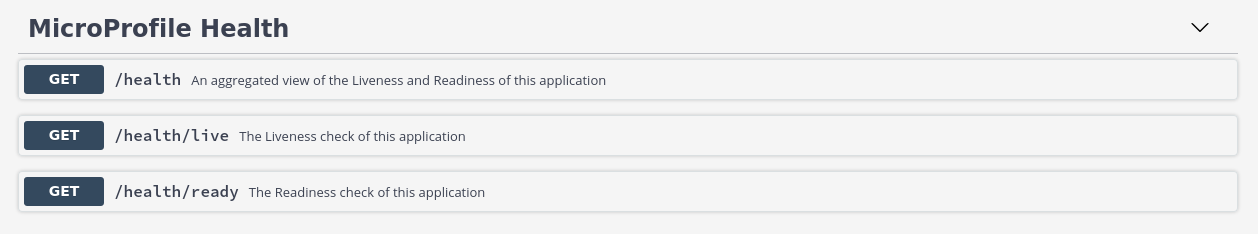
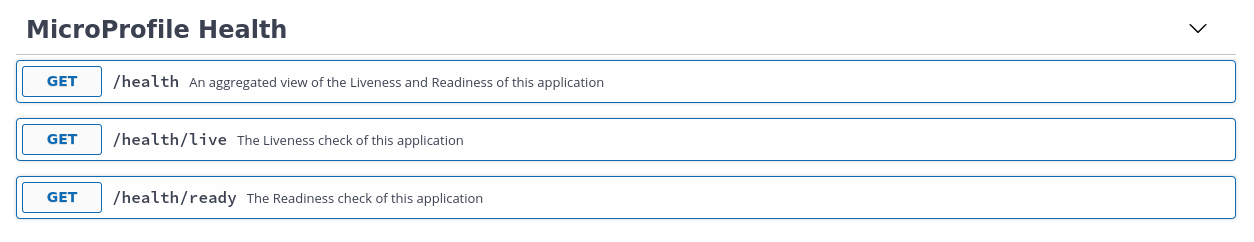
Removed Standard Bank

diff --git a/_posts/2020-11-04-Stylish API.md b/_posts/2020-11-04-Stylish API.md
@@ -24,7 +24,7 @@ In this post we mostly fokus on Swagger UI, but the styling options also apply t
 You can change the theme by setting the `quarkus.swagger-ui.theme` property, for example:
 
 ```properties
-quarkus.swagger-ui.theme=monokai
+quarkus.swagger-ui.theme=outline
 ```
 
 ![themed](/images/Stylish_API/themed.png)
@@ -50,18 +50,17 @@ Theme options available:
 
 ### Logo
 
-As part of the custom branding, you can supply your own logo to replace the Quarkus logo. We are going to use [Standard Bank](https://www.standardbank.co.za/) as an example on how you can brand the page:
-
+As part of the custom branding, you can supply your own logo to replace the Quarkus logo. For example, let say you own company that makes everything, ACME, and you are using REST Services for your online store, and wants to brand the Swagger UI Page:
 
 NOTE: Hot reload is not working for logo changes, and remember browser cache, you might need to [force refresh](https://refreshyourcache.com/en/cache/) your browser.
 
-![standardbank logo](/images/Stylish_API/standardbank_logo.png)
+![acme logo](/images/Stylish_API/acme_logo.png)
 
 To supply your own logo, you need to place a file called `logo.png` in `src/main/resources/META-INF/branding`.
 
 ### Style
 
-You can go further, and supply your own `style.css`, to fine-tune the branding. Example, to change the `topbar` of the Swagger-UI screen to the corporate colors of Standard Bank:
+You can go further, and supply your own `style.css`, to fine-tune the branding. Example, to change the `topbar` of the Swagger-UI screen to the corporate colors of ACME:
 
 ```css
 html{
@@ -79,17 +78,17 @@ html{
 
 body{
     margin:0;
-    background: whitesmoke;
+    background: white;
 }
 
 .swagger-ui .topbar { <1>
-    background-color: #0033a1;
+    background-color: whitesmoke;
 }
 
 #footer {
-    background-color: #0033a1;
+    background-color: whitesmoke;
     font-family:sans-serif;
-    color:white;
+    color:#4da32c;
     font-size:70%;
     text-align: center;
 }
@@ -97,7 +96,7 @@ body{
 
 <1> here set the `topbar` background color.
 
-![standardbank css](/images/Stylish_API/standardbank_css.png)
+![acme css](/images/Stylish_API/acme_css.png)
 
 You can change any styling element in this css file, you need to place this file called `style.css` in `src/main/resources/META-INF/branding`.
 
@@ -106,26 +105,26 @@ You can change any styling element in this css file, you need to place this file
 You can also set the HTML title, and add a footer:
 
 ```properties
-quarkus.swagger-ui.title=OpenAPI for Everyone
-quarkus.swagger-ui.footer=&#169; 2020 . Standard Bank
+quarkus.swagger-ui.title=ACME API
+quarkus.swagger-ui.footer=&#169; 2020 . ACME
 ```
 
 Along with other OpenAPI Header fields that can be set via config (as discussed in [this post](/post/openapi_for_everyone/)):
 
 ```properties
-mp.openapi.extensions.smallrye.info.title=Standard Bank API
+mp.openapi.extensions.smallrye.info.title=ACME online store API
 mp.openapi.extensions.smallrye.info.version=1.0.0
-mp.openapi.extensions.smallrye.info.description=The banking API
-mp.openapi.extensions.smallrye.info.contact.email=it@standardbank.co.za
-mp.openapi.extensions.smallrye.info.contact.name=Standard Bank IT
-mp.openapi.extensions.smallrye.info.contact.url=https://www.standardbank.com
+mp.openapi.extensions.smallrye.info.description=We make everything, and sell it online
+mp.openapi.extensions.smallrye.info.contact.email=it@acme.com
+mp.openapi.extensions.smallrye.info.contact.name=ACME IT
+mp.openapi.extensions.smallrye.info.contact.url=https://www.acme.com
 mp.openapi.extensions.smallrye.info.license.name=Apache 2.0
 mp.openapi.extensions.smallrye.info.license.url=http://www.apache.org/licenses/LICENSE-2.0.html
 ```
 
 The UI is now fully branded:
 
-![standardbank footer](/images/Stylish_API/standardbank_footer.png)
+![acme footer](/images/Stylish_API/acme_footer.png)
 
 ## Other Swagger UI Options
 
